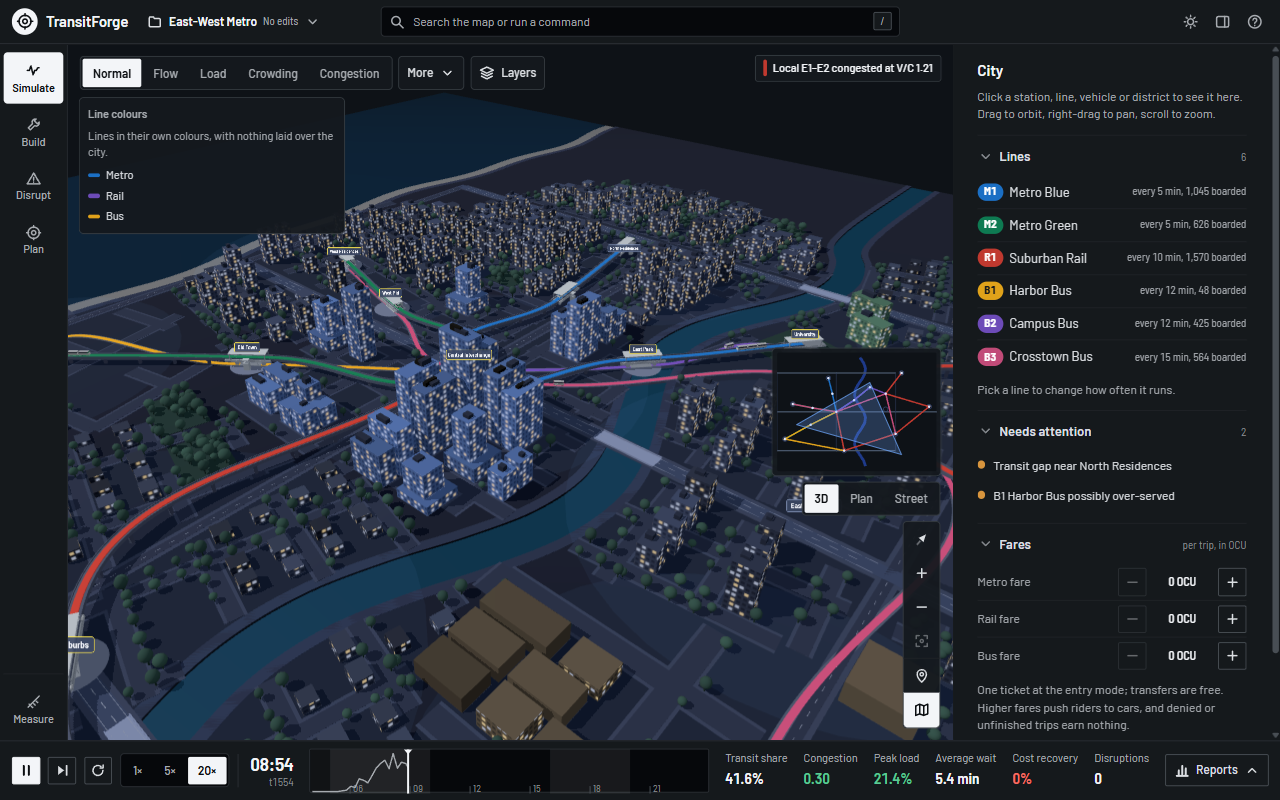
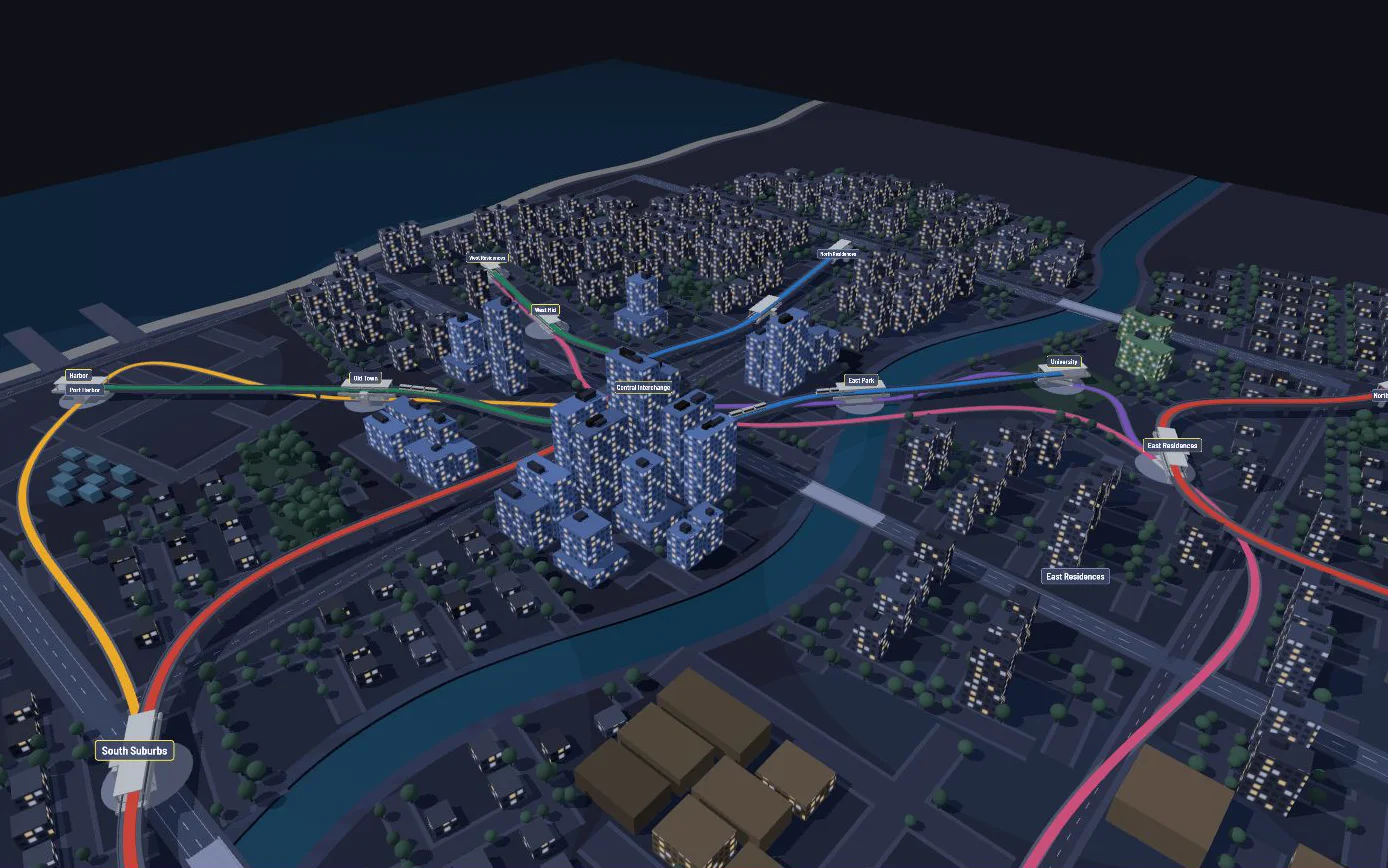
Show the map alone in the landing hero, without the workspace chrome

diff --git a/index.html b/index.html
@@ -97,9 +97,9 @@
           <img
             id="lf-hero"
             src="/hero-light.webp"
-            width="1280"
-            height="800"
-            alt="The TransitForge simulator: a coastal city in 3D with six transit lines drawn across it, a route and fare panel on the right, and the service-day strip along the bottom."
+            width="1388"
+            height="868"
+            alt="The TransitForge map: a coastal city in 3D with six transit lines drawn across it and every station named."
           />
           <script>
             // Show the figure that matches the theme already set on <html>.
@@ -110,8 +110,7 @@
             })();
           </script>
           <figcaption>
-            The seeded city running a full day: six lines, demand from every district, and the day's
-            load in the strip below.
+            The seeded city, with all six lines in service and every station named.
           </figcaption>
         </figure>
       </section>
